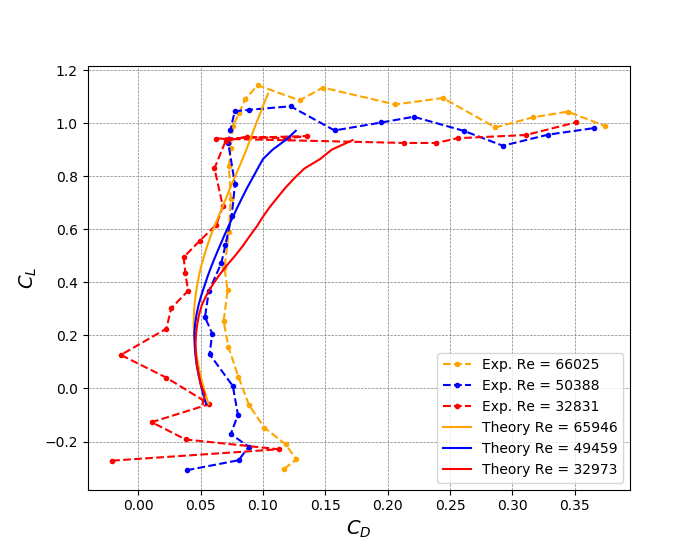
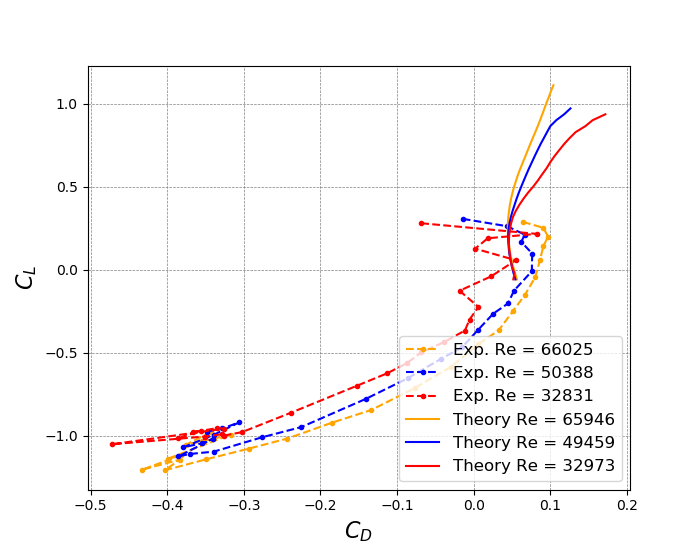
AE460 lab7 - finish

diff --git a/AE460/Lab7/AE460_lab7.py b/AE460/Lab7/AE460_lab7.py
@@ -55,6 +55,7 @@ class labSeven():
         self.F_a_corrected = {}
         self.M_corrected = {}
         self.M_np = {}
+        self.Lift = {}
 
         for i in self.filenames:
             self.file = i
@@ -130,6 +131,7 @@ class labSeven():
                     F_n_list = []
                     F_a_list = []
                     M_list = []
+                    Lift = []
                     # Go through each angle of attack
                     for i in range(len(self.alpha[file])):
                         alpha = self.alpha[file][i]
@@ -141,18 +143,20 @@ class labSeven():
                         F_n_list.append(F_n)
                         F_a_list.append(F_a)
                         M_list.append(M)
-                        D = F_a*cos(a) + F_n*sin(a)     # lbs
-                        L = F_a*sin(a) + F_n*cos(a)     # lba
+                        D = F_a*cos(a) - F_n*sin(a)     # lbs
+                        L = F_a*sin(a) - F_n*cos(a)     # lbs
                         M_LE = -1*((M - corr_M(alpha)) + L*cos(a)*self.LE_to_M_distance)        # in-lbf
                         C_L.append(L/((q)*self.S))
                         C_D.append(D/((q)*self.S))
                         C_M_LE.append(M_LE/(q*self.S**2))
+                        Lift.append(L)
                     self.C_L[file] = C_L
                     self.C_D[file] = C_D
                     self.C_M_LE[file] = C_M_LE
                     self.F_n_corrected[file] = F_n_list
                     self.F_a_corrected[file] = F_a_list
                     self.M_corrected[file] = M_list
+                    self.Lift[file] = Lift
 
         # Calc the moment about the neutral point
         for file in self.filenames:
@@ -169,6 +173,10 @@ class labSeven():
                     x = self.dist_np[airspeed]
                     y = 0       # estimation of y location (in) of neutral point with respect to the axis of measurement
 
+                    if '100' in file:
+                        a = np.deg2rad(alpha)
+                        #print(alpha)
+                        #print(F_n*cos(a) + F_a*sin(a))
                     # Calc the moment at the neutral point (only consider the x position)
                     M_np_val = M - (F_n*x+F_a*y)
                     M_np.append(M_np_val)
@@ -177,7 +185,7 @@ class labSeven():
     def plotC(self):
         s = 3           # Marker size
         w = 1.5         # Linewidth
-        f = 14          # Fontsize
+        f = 16          # Fontsize
         wp = 7          # width of plot size
         hp = 5.5          # height of plot figure
         fig1 = plt.figure(figsize=(wp, hp))     # C_L vs alpha
@@ -190,6 +198,7 @@ class labSeven():
         fig8 = plt.figure(figsize=(wp, hp))     # Fn vs alpha
         fig9 = plt.figure(figsize=(wp, hp))     # Fa vs alpha
         fig10 = plt.figure(figsize=(wp, hp))    # M vs alpha
+        fig11 = plt.figure(figsize=(wp, hp))    # L vs alpha
         plot_C_L = fig1.add_subplot(111)
         plot_C_L.grid(color='grey', ls='--', lw=0.5)
         plot_C_L.set_xlabel('$\\alpha$ [deg]', fontsize=f)
@@ -217,7 +226,7 @@ class labSeven():
         plot_Mnp = fig7.add_subplot(111)
         plot_Mnp.grid(color='grey', ls='--', lw=0.5)
         plot_Mnp.set_xlabel('$\\alpha$ [deg]', fontsize=f)
-        plot_Mnp.set_ylabel('$M_{neutral point}$ [in-lbf]', fontsize=f)
+        plot_Mnp.set_ylabel('$M_{NP}$ [in-lbf]', fontsize=f)
         plot_Fn = fig8.add_subplot(111)
         plot_Fn.grid(color='grey', ls='--', lw=0.5)
         plot_Fn.set_xlabel('$\\alpha$ [deg]', fontsize=f)
@@ -229,7 +238,11 @@ class labSeven():
         plot_M = fig10.add_subplot(111)
         plot_M.grid(color='grey', ls='--', lw=0.5)
         plot_M.set_xlabel('$\\alpha$ [deg]', fontsize=f)
-        plot_M.set_ylabel('$M_{sting}$ [lbf]', fontsize=f)
+        plot_M.set_ylabel('$M_{sting}$ [in-lbf]', fontsize=f)
+        plot_L = fig11.add_subplot(111)
+        plot_L.grid(color='grey', ls='--', lw=0.5)
+        plot_L.set_xlabel('$\\alpha$ [deg]', fontsize=f)
+        plot_L.set_ylabel('$L$ [lbf]', fontsize=f)
 
         for file in self.non_dry_files:
             c = ''
@@ -245,6 +258,7 @@ class labSeven():
                 F_n = self.F_n_corrected[file]
                 F_a = self.F_a_corrected[file]
                 M = self.M_corrected[file]
+                L = self.Lift[file]
                 C_L = self.C_L[file]
                 C_D = self.C_D[file]
                 C_M_LE = self.C_M_LE[file]
@@ -279,6 +293,8 @@ class labSeven():
                               label=f'Exp. Re = {Re}')
                 plot_M.plot(alpha, M, marker='o', mfc=None, markeredgecolor=c, color=c, ls='--', lw=w, ms=s,
                               label=f'Exp. Re = {Re}')
+                plot_L.plot(alpha, L, marker='o', mfc=None, markeredgecolor=c, color=c, ls='--', lw=w, ms=s,
+                            label=f'Exp. Re = {Re}')
             else:
                 alpha = self.alpha[file]
                 C_L = self.C_L[file]
@@ -303,17 +319,18 @@ class labSeven():
                 plot_l_d.plot(C_D, C_L, color=c, lw=w, label=f'Theory Re = {Re}')
                 plot_CL32.plot(alpha_mod1, LD32, color=c, lw=w, label=f'Theory Re = {Re}')
                 plot_LD.plot(alpha, LD, color=c, lw=w, label=f'Theory Re = {Re}')
-
-        plot_C_L.legend(loc='lower right', fontsize=10)
-        plot_C_D.legend(loc='upper left', fontsize=10)
-        plot_C_M_LE.legend(loc='upper right', fontsize=10)
-        plot_l_d.legend(loc='lower right', fontsize=10)
-        plot_LD.legend(loc='lower right', fontsize=10)
-        plot_CL32.legend(loc='upper left', fontsize=10)
-        plot_Mnp.legend(loc='lower left', fontsize=10)
-        plot_Fn.legend(loc='upper left', fontsize=10)
-        plot_Fa.legend(loc='lower left', fontsize=10)
-        plot_M.legend(loc='upper left', fontsize=10)
+        f2 = 12     # legend fontsize
+        plot_C_L.legend(loc='lower right', fontsize=f2)
+        plot_C_D.legend(loc='upper left', fontsize=f2)
+        plot_C_M_LE.legend(loc='upper right', fontsize=f2)
+        plot_l_d.legend(loc='lower right', fontsize=f2)
+        plot_LD.legend(loc='lower right', fontsize=f2)
+        plot_CL32.legend(loc='upper left', fontsize=f2)
+        plot_Mnp.legend(loc='lower left', fontsize=f2)
+        plot_Fn.legend(loc='upper left', fontsize=f2)
+        plot_Fa.legend(loc='lower left', fontsize=f2)
+        plot_M.legend(loc='upper left', fontsize=f2)
+        plot_L.legend(loc='upper left', fontsize=f2)
         plt.draw()
         fig1.savefig(os.path.join(os.getcwd(), r'plots\CL_alpha'))
         fig2.savefig(os.path.join(os.getcwd(), r'plots\CD_alpha'))
@@ -325,6 +342,7 @@ class labSeven():
         fig8.savefig(os.path.join(os.getcwd(), r'plots\Fn_alpha'))
         fig9.savefig(os.path.join(os.getcwd(), r'plots\Fa_alpha'))
         fig10.savefig(os.path.join(os.getcwd(), r'plots\M_alpha'))
+        fig11.savefig(os.path.join(os.getcwd(), r'plots\L_alpha'))
 
 
 if __name__ == '__main__':
